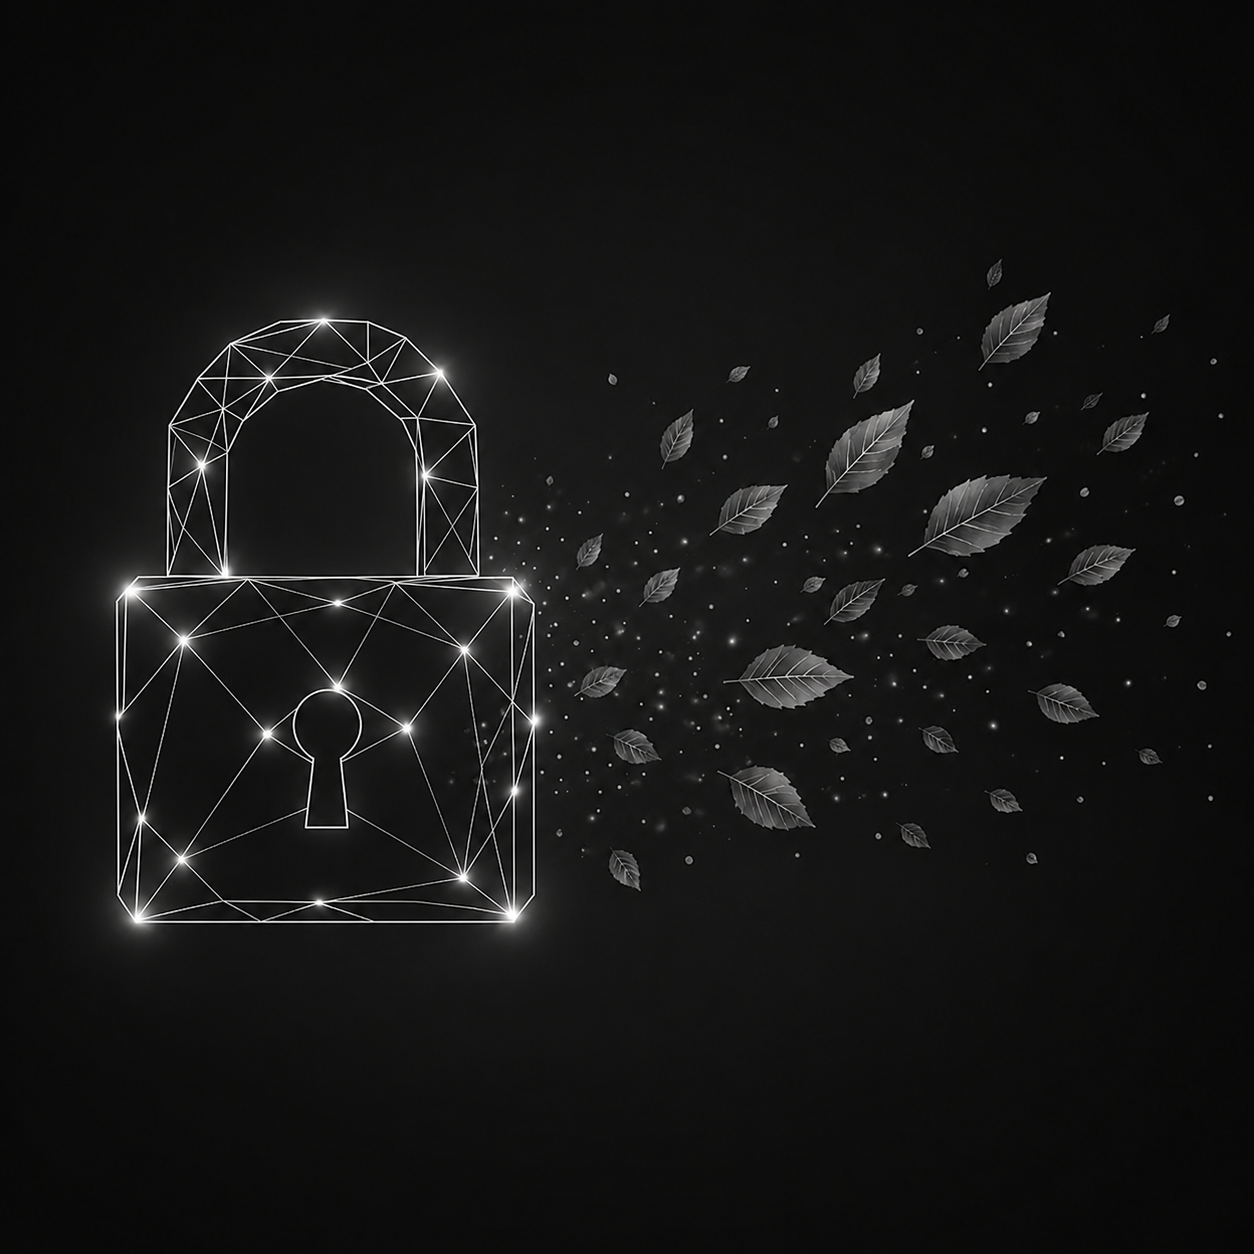
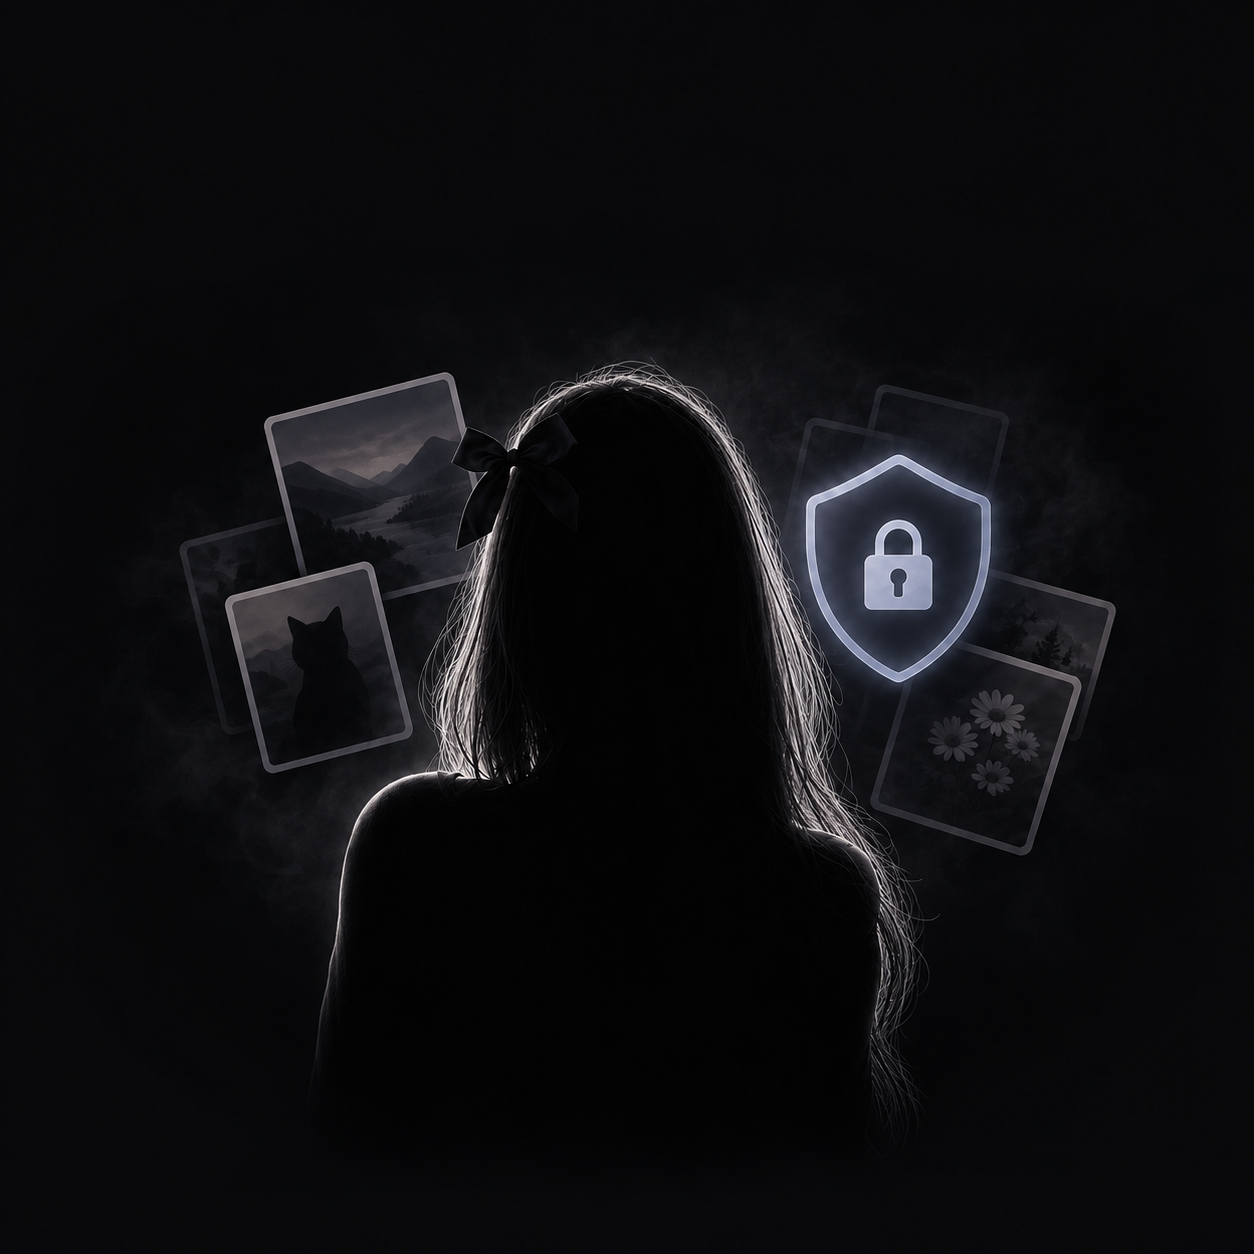
feat: enhance UI components and add following feed functionality

diff --git a/src/pages/HomePage.jsx b/src/pages/HomePage.jsx
@@ -1,5 +1,5 @@
 import { useCallback, useEffect, useMemo, useRef, useState } from "react";
-import { feed } from "../services/feed.service";
+import { feed, followingFeed } from "../services/feed.service";
 import { HomeNavbar } from "../components/HomeNavbar";
 import { useNavigate } from "react-router-dom";
 import Shimmer from "../components/Shimmer";
@@ -18,18 +18,27 @@ const HomePage = () => {
   const navigate = useNavigate();
   const observer = useRef();
 
+  const [activeTab, setActiveTab] = useState("forYou");
   const [images, setImages] = useState([]);
   const [loading, setLoading] = useState(false);
   const [page, setPage] = useState(1);
   const [hasMore, setHasMore] = useState(true);
   const [columnCount, setColumnCount] = useState(getColumnCount());
 
-
   useEffect(() => {
     const handleResize = () => setColumnCount(getColumnCount());
     window.addEventListener("resize", handleResize);
     return () => window.removeEventListener("resize", handleResize);
   }, []);
+
+  // Reset everything when tab changes
+  const handleTabChange = (tab) => {
+    if (tab === activeTab) return;
+    setActiveTab(tab);
+    setImages([]);
+    setPage(1);
+    setHasMore(true);
+  };
 
   const lastPostElementRef = useCallback(
     (node) => {
@@ -48,12 +57,12 @@ const HomePage = () => {
   );
 
   useEffect(() => {
-
     const fetchImageData = async () => {
       setLoading(true);
 
       try {
-        const response = await feed(page, 5);
+        const fetchFn = activeTab === "following" ? followingFeed : feed;
+        const response = await fetchFn(page, 5);
         const newPosts = response?.data?.data?.posts || [];
 
         if (newPosts.length === 0) {
@@ -74,7 +83,7 @@ const HomePage = () => {
     };
 
     fetchImageData();
-  }, [page, navigate]);
+  }, [page, activeTab, navigate]);
 
   const columns = useMemo(() => {
     const cols = Array.from({ length: columnCount }, () => []);
@@ -89,6 +98,32 @@ const HomePage = () => {
   return (
     <div className="min-h-screen bg-zinc-950 text-white flex flex-col">
       <HomeNavbar />
+
+      <div className="flex items-center justify-center gap-6 pt-4 pb-2">
+        <button
+          onClick={() => handleTabChange("forYou")}
+          className={`pb-1.5 text-sm sm:text-base font-semibold tracking-wide transition-all duration-200 cursor-pointer border-b-2 ${
+            activeTab === "forYou"
+              ? "text-white border-white"
+              : "text-white/40 border-transparent hover:text-white/70"
+          }`}
+          style={{ fontFamily: "'Outfit', sans-serif" }}
+        >
+          For You
+        </button>
+        <button
+          onClick={() => handleTabChange("following")}
+          className={`pb-1.5 text-sm sm:text-base font-semibold tracking-wide transition-all duration-200 cursor-pointer border-b-2 ${
+            activeTab === "following"
+              ? "text-white border-white"
+              : "text-white/40 border-transparent hover:text-white/70"
+          }`}
+          style={{ fontFamily: "'Outfit', sans-serif" }}
+        >
+          Following
+        </button>
+      </div>
+
       <div className="max-w-7xl mx-auto w-full p-4 sm:p-6 md:p-8 flex-1">
         {images.length === 0 && loading ? (
           <Shimmer />
@@ -98,7 +133,9 @@ const HomePage = () => {
               className="text-white/50 text-sm sm:text-base font-medium"
               style={{ fontFamily: "'Outfit', sans-serif" }}
             >
-              No posts yet. Be the first to share!
+              {activeTab === "following"
+                ? "No posts from people you follow yet."
+                : "No posts yet. Be the first to share!"}
             </p>
           </div>
         ) : (

diff --git a/src/components/LandingNavbar.jsx b/src/components/LandingNavbar.jsx
@@ -3,21 +3,30 @@ import Logo from "./Logo";
 
 const LandingNavbar = () => {
   return (
-    <div className="flex items-center justify-between px-3 sm:px-6 md:px-10 py-0 sticky top-0 z-50 backdrop-blur-md bg-zinc-950/30">
+    <div className="flex items-center justify-between px-4 sm:px-6 md:px-10 py-0 sticky top-0 z-50 backdrop-blur-md bg-zinc-950/30">
       <Logo />
-      <div className="flex items-center gap-2 sm:gap-6 md:gap-10 mr-0 sm:mr-4 md:mr-20 mt-0 pt-0 shrink-0">
-        <a href="#masonry" className="text-[11px] sm:text-xs md:text-sm font-normal tracking-wider sm:tracking-widest uppercase text-white/60 hover:text-white transition-colors duration-300">
+      <div className="flex items-center gap-3 sm:gap-6 md:gap-10 mr-0 sm:mr-4 md:mr-20 mt-0 pt-0 shrink-0">
+        <a
+          href="#masonry"
+          className="hidden md:block text-xs sm:text-sm font-normal tracking-wider sm:tracking-widest uppercase text-white/60 hover:text-white transition-colors duration-300"
+        >
           Explore
         </a>
-        <a href="#features" className="text-[11px] sm:text-xs md:text-sm font-normal tracking-wider sm:tracking-widest uppercase text-white/60 hover:text-white transition-colors duration-300">
+        <a
+          href="#features"
+          className="hidden md:block text-xs sm:text-sm font-normal tracking-wider sm:tracking-widest uppercase text-white/60 hover:text-white transition-colors duration-300"
+        >
           Features
         </a>
-        <Link to="/login" className="text-[11px] sm:text-xs md:text-sm font-normal tracking-wider sm:tracking-widest uppercase text-white/60 hover:text-white transition-colors duration-300">
+        <Link
+          to="/login"
+          className="text-xs sm:text-sm font-normal tracking-wider sm:tracking-widest uppercase text-white/70 hover:text-white transition-colors duration-300 px-1 py-1"
+        >
           Login
         </Link>
         <Link
           to="/register"
-          className="border border-white/20 hover:border-white/60 hover:bg-white/10 text-white font-medium tracking-widest uppercase py-2 px-4 sm:py-2.5 sm:px-5 rounded-xl transition-all duration-500 cursor-pointer text-xs sm:text-sm backdrop-blur-md bg-zinc-950/40 shrink-0 whitespace-nowrap"
+          className="border border-white/20 hover:border-white/60 hover:bg-white/10 text-white font-medium tracking-widest uppercase py-2 px-3.5 sm:py-2.5 sm:px-5 rounded-xl transition-all duration-300 cursor-pointer text-xs sm:text-sm backdrop-blur-md bg-zinc-950/40 shrink-0 whitespace-nowrap"
         >
           Register
         </Link>

diff --git a/src/pages/PostPage.jsx b/src/pages/PostPage.jsx
@@ -366,18 +366,23 @@ const PostPage = () => {
 
           <div className="absolute bottom-0 left-0 right-0 z-20 p-4 sm:p-6 pr-20 sm:pr-24 flex flex-col gap-2">
             <div className="flex items-center gap-3">
-              <div className="w-9 h-9 sm:w-10 sm:h-10 rounded-full bg-gradient-to-br from-rose-500 to-amber-500 flex items-center justify-center shrink-0 shadow-lg ring-2 ring-white/30">
-                {post?.user?.username ? (
-                  <span
-                    className="text-white font-bold text-sm"
-                    style={{ fontFamily: "'Outfit', sans-serif" }}
-                  >
-                    {post.user.username.charAt(0).toUpperCase()}
-                  </span>
-                ) : (
-                  <User className="w-5 h-5 text-white" />
-                )}
-              </div>
+              <Link
+                to={`/profile/${post?.user?.userId}`}
+                className="w-9 h-9 sm:w-10 sm:h-10 rounded-full bg-gradient-to-tr from-rose-500/30 via-white/15 to-purple-500/30 p-0.5 shadow-lg flex items-center justify-center border border-white/15 shrink-0 hover:scale-105 transition-transform duration-200 cursor-pointer"
+              >
+                <div className="w-full h-full rounded-full bg-zinc-900 flex items-center justify-center">
+                  {post?.user?.username ? (
+                    <span
+                      className="text-white font-bold text-xs sm:text-sm uppercase select-none"
+                      style={{ fontFamily: "'Outfit', sans-serif" }}
+                    >
+                      {post.user.username.charAt(0).toUpperCase()}
+                    </span>
+                  ) : (
+                    <User className="w-4 h-4 text-white" />
+                  )}
+                </div>
+              </Link>
 
               <Link
                 to={`/profile/${post?.user?.userId}`}

diff --git a/src/pages/LandingPage.jsx b/src/pages/LandingPage.jsx
@@ -1,15 +1,21 @@
-import CTA from "../components/CTA"
-import Features from "../components/Features"
-import Footer from "../components/Footer"
-import HeroSection from "../components/HeroSection"
-import LandingNavbar from "../components/LandingNavbar"
-import Masonry from "../components/Masonry"
+import { useState } from "react";
+import { useNavigate } from "react-router-dom";
+import CTA from "../components/CTA";
+import Features from "../components/Features";
+import Footer from "../components/Footer";
+import HeroSection from "../components/HeroSection";
+import LandingNavbar from "../components/LandingNavbar";
+import Masonry from "../components/Masonry";
+import ImageUpload from "../components/ImageUpload";
 
 const LandingPage = () => {
+  const [isUploadOpen, setIsUploadOpen] = useState(false);
+  const navigate = useNavigate();
+
   return (
     <div className="landing-hero-bg min-h-screen bg-zinc-950 text-white">
       <LandingNavbar />
-      <HeroSection />
+      <HeroSection onUploadClick={() => setIsUploadOpen(true)} />
       <section id="masonry">
         <Masonry />
       </section>
@@ -18,8 +24,17 @@ const LandingPage = () => {
       </section>
       <CTA />
       <Footer />
-    </div>
-  )
-}
 
-export default LandingPage
+      <ImageUpload
+        isOpen={isUploadOpen}
+        onClose={() => setIsUploadOpen(false)}
+        onPostCreated={() => {
+          setIsUploadOpen(false);
+          navigate("/homepage");
+        }}
+      />
+    </div>
+  );
+};
+
+export default LandingPage;

diff --git a/src/components/Comments.jsx b/src/components/Comments.jsx
@@ -206,12 +206,16 @@ export const Comments = ({ post, currentUser: propCurrentUser }) => {
                     >
                       <div className="flex items-start gap-2.5 flex-1 min-w-0">
                         <div
-                          className="w-6 h-6 sm:w-7 sm:h-7 rounded-full bg-gradient-to-br from-rose-500 to-amber-500 flex items-center justify-center shrink-0 text-white font-bold text-[10px] sm:text-xs shadow-sm ring-1 ring-white/20 select-none cursor-pointer"
+                          className="w-7 h-7 sm:w-8 sm:h-8 rounded-full bg-gradient-to-tr from-rose-500/30 via-white/15 to-purple-500/30 p-0.5 shadow-sm flex items-center justify-center border border-white/15 shrink-0 select-none cursor-pointer hover:scale-105 transition-transform duration-200"
                           onClick={() =>
                             comment.userId && navigate(`/profile/${comment.userId}`)
                           }
                         >
-                          {initial}
+                          <div className="w-full h-full rounded-full bg-zinc-900 flex items-center justify-center">
+                            <span className="text-[10px] sm:text-xs font-bold text-white uppercase select-none">
+                              {initial}
+                            </span>
+                          </div>
                         </div>
 
                         <div className="flex-1 min-w-0 pt-0.5">

diff --git a/src/components/HeroSection.jsx b/src/components/HeroSection.jsx
@@ -1,4 +1,4 @@
-const HeroSection = () => {
+const HeroSection = ({ onUploadClick }) => {
   return (
     <div className="mt-16 min-h-[70vh] flex flex-col items-start justify-center px-6 sm:px-10 py-12 sm:py-16 max-w-7xl mx-auto text-left">
       <div className="text-left max-w-5xl">
@@ -14,7 +14,12 @@ const HeroSection = () => {
           your private moments safe.
         </p>
         <div className="flex gap-8 mt-10 text-xl">
-          <button className="text-xs sm:text-sm font-medium tracking-widest uppercase text-white/70 hover:text-white border border-white/20 hover:border-white/60 hover:bg-white/10 py-4 px-5 sm:px-6 rounded-xl transition-all duration-500 cursor-pointer">Upload Pictures</button>
+          <button 
+            onClick={onUploadClick}
+            className="text-xs sm:text-sm font-medium tracking-widest uppercase text-white/70 hover:text-white border border-white/20 hover:border-white/60 hover:bg-white/10 py-4 px-5 sm:px-6 rounded-xl transition-all duration-500 cursor-pointer"
+          >
+            Upload Pictures
+          </button>
         </div>
       </div>
       <div className="w-full max-w-7xl mx-auto mt-16 sm:mt-20"></div>

diff --git a/src/components/Footer.jsx b/src/components/Footer.jsx
@@ -1,9 +1,8 @@
-
 const Footer = () => {
   return (
     <footer className='max-w-7xl mx-auto px-6 sm:px-10 py-10 sm:py-12 border-t border-white/10 flex flex-col sm:flex-row items-center justify-between gap-4 text-center sm:text-left'>
         <h2 className='text-xl sm:text-2xl font-medium tracking-wider uppercase text-white/90'>Pixora</h2>
-        <p className='text-xs sm:text-sm font-normal tracking-widest uppercase text-white/40' style={{fontFamily: "'Outfit', sans-serif"}}>Share your creativity with the world.</p>
+        <p className='text-[10px] sm:text-xs font-light tracking-wide sm:tracking-widest uppercase text-white/40' style={{fontFamily: "'Outfit', sans-serif"}}>Share your creativity with the world.</p>
         <p className='text-xs font-normal tracking-wide text-white/30' style={{fontFamily: "'Outfit', sans-serif"}}>© 2026 Pixora. All rights reserved.</p>
     </footer>
   )

diff --git a/src/pages/ProfilePage.jsx b/src/pages/ProfilePage.jsx
@@ -56,14 +56,17 @@ export const ProfilePage = () => {
   }, [posts, columnCount]);
 
   if (!userProfile) {
-    return (
-      <div className="min-h-screen bg-zinc-950 text-white flex items-center justify-center">
-        <p className="text-white/50 text-sm font-medium tracking-wider uppercase animate-pulse">
-          Loading...
-        </p>
-      </div>
-    );
-  }
+      return (
+        <div className="min-h-screen bg-zinc-950 text-white flex flex-col">
+          <HomeNavbar />
+          <div className="max-w-7xl mx-auto w-full p-4 sm:p-6 md:p-8 flex-1 flex items-center justify-center">
+            <p className="text-white/50 text-sm font-medium tracking-wider uppercase animate-pulse">
+              Loading...
+            </p>
+          </div>
+        </div>
+      );
+    }
 
   return (
     <div className="min-h-screen bg-zinc-950 text-white flex flex-col">

diff --git a/src/pages/UserProfilePage.jsx b/src/pages/UserProfilePage.jsx
@@ -105,10 +105,13 @@ const UserProfilePage = () => {
 
   if (!userProfile) {
     return (
-      <div className="min-h-screen bg-zinc-950 text-white flex items-center justify-center">
-        <p className="text-white/50 text-sm font-medium tracking-wider uppercase animate-pulse">
-          Loading...
-        </p>
+      <div className="min-h-screen bg-zinc-950 text-white flex flex-col">
+        <HomeNavbar />
+        <div className="max-w-7xl mx-auto w-full p-4 sm:p-6 md:p-8 flex-1 flex items-center justify-center">
+          <p className="text-white/50 text-sm font-medium tracking-wider uppercase animate-pulse">
+            Loading...
+          </p>
+        </div>
       </div>
     );
   }

diff --git a/src/utils/features.js b/src/utils/features.js
@@ -30,7 +30,7 @@ const features = [
     image: featureFollow,
   },
   {
-    title: "PRIVATE PHOTO SHARING",
+    title: "KEEP THE MEMORIES CLOSE",
     description:
       "Your memories, your privacy. Choose to keep your photos private whenever you want. Share only what you're comfortable sharing with the world while keeping your personal moments safe and accessible only to you.",
     image: featurePrivate,

diff --git a/src/components/Logo.jsx b/src/components/Logo.jsx
@@ -14,7 +14,7 @@ const Logo = () => {
         </div>
         <div className="">
           <h1
-            className="m-0 text-sm sm:text-xl md:text-2xl text-zinc-500 font-bold tracking-normal uppercase"
+            className="m-0 text-lg sm:text-xl md:text-2xl text-zinc-500 font-bold tracking-normal uppercase"
             style={{ fontFamily: "'Quicksand', sans-serif" }}
           >
             PIXORA

diff --git a/src/components/ImageUpload.jsx b/src/components/ImageUpload.jsx
@@ -92,7 +92,7 @@ const ImageUpload = ({ isOpen = true, onClose, onPostCreated }) => {
       }
       handleClose();
     } catch (err) {
-      toast.error(err.response?.data?.message || "Failed to create post");
+      toast(err.response?.data?.message || "Login to add your pictures");
     } finally {
       setLoading(false);
     }
